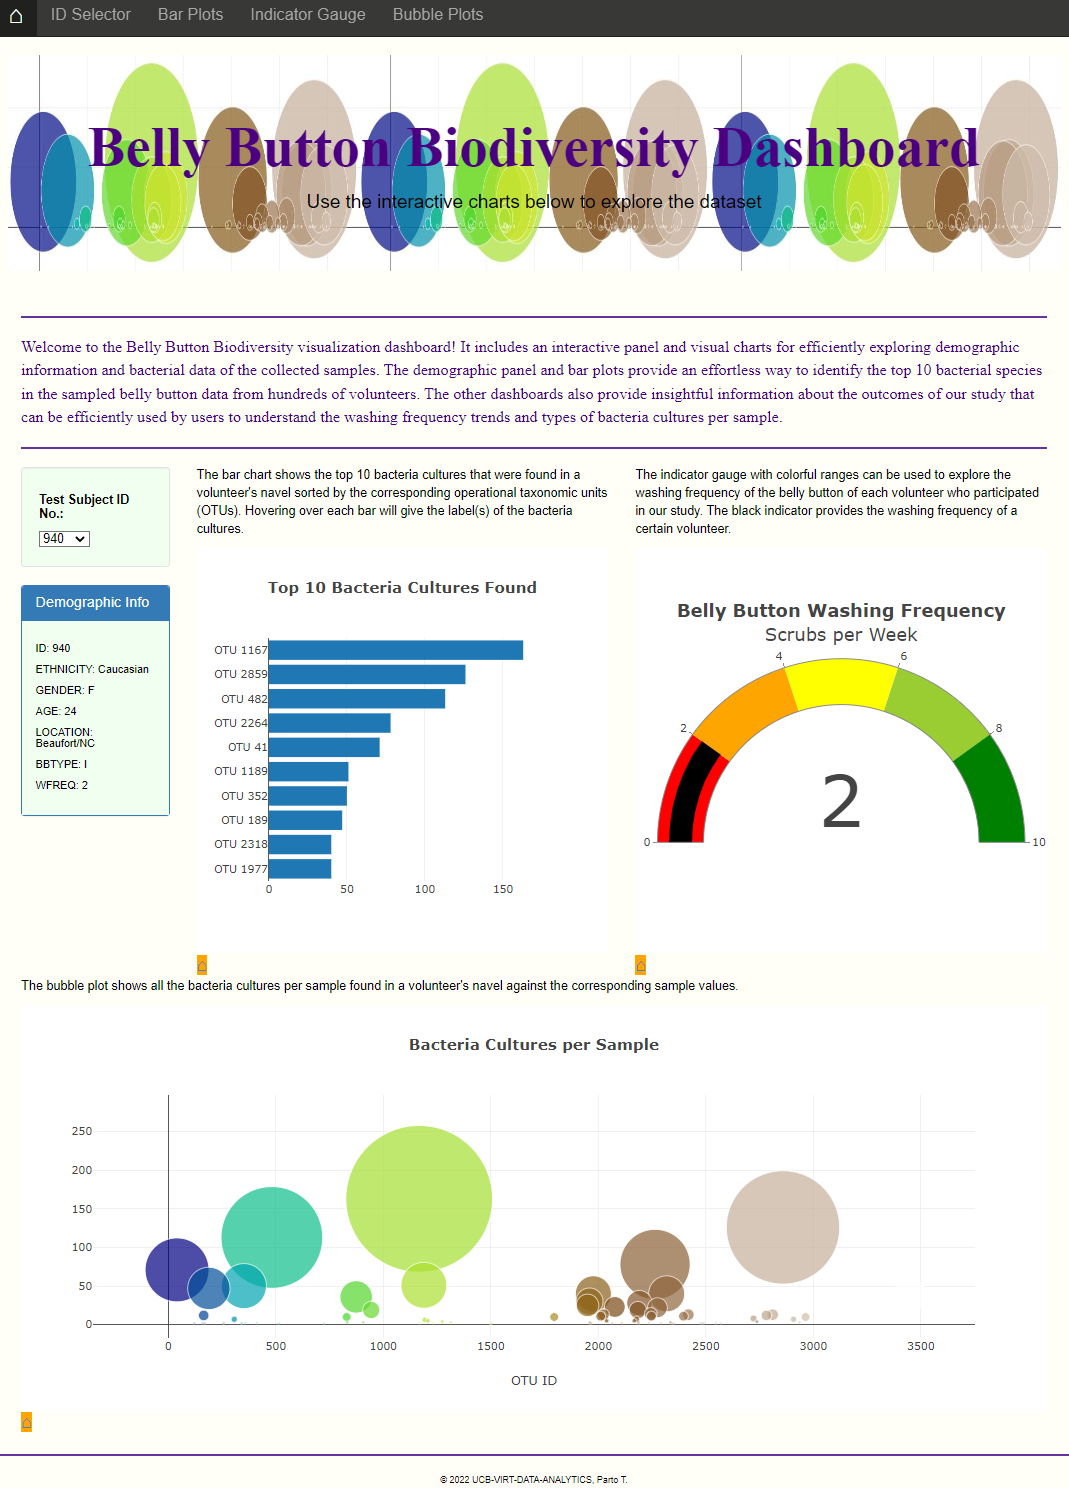
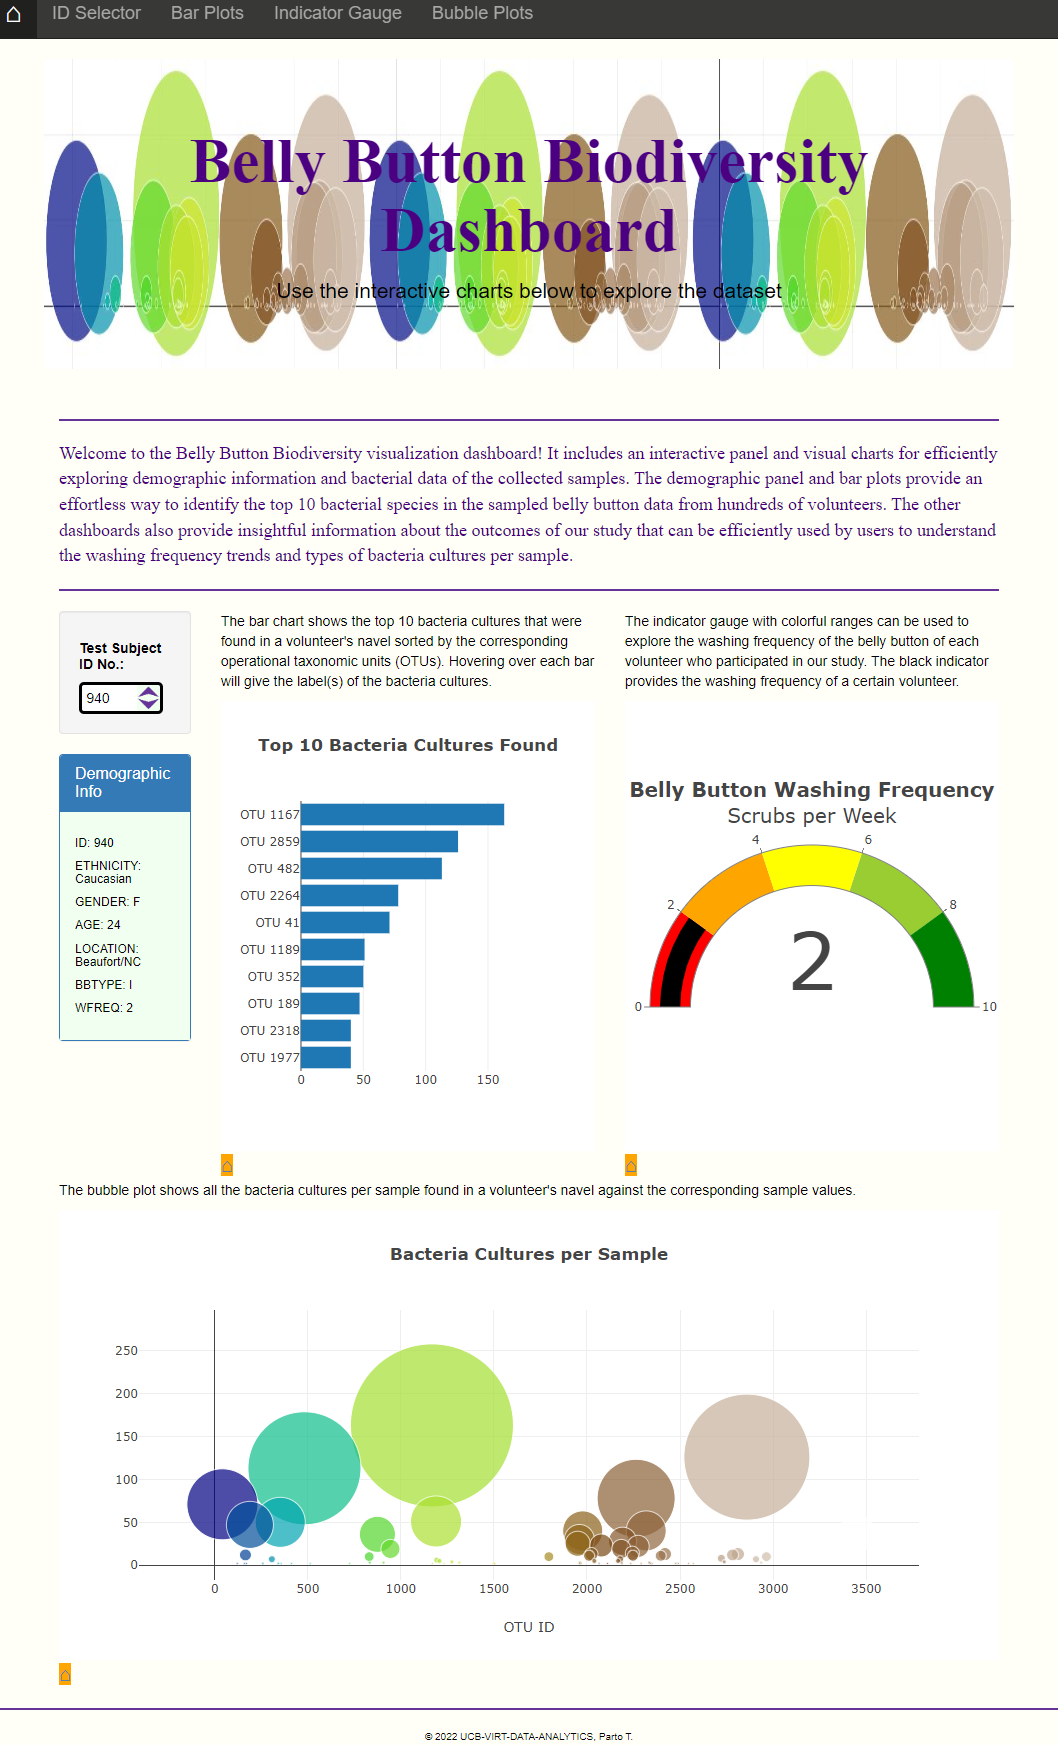
Minor revision of html and supporting files

diff --git a/static/css/style.css b/static/css/style.css
@@ -1,5 +1,6 @@
 /* UCB-VIRT-DATA-ANALYTICS-2022, Parto T. */
 
+/*ivory:#fffff7, orange:#ffa500, honeydew:#f0fff0, rebeccapurple:#663399, indigo:#4b0082 */
 body {
   color: black;
   background-color: #fffff7;
@@ -14,23 +15,23 @@ nav {
 nav:hover {
   opacity: 1;
   font-weight: 700;
-  background: linear-gradient(to right, red, orange, yellow, yellowgreen, green);
+  background: linear-gradient(to right, red, #ffa500, yellow, yellowgreen, green);
 }
 
 div.well:hover {
-  background: honeydew;
+  background: #f0fff0;
 }
 
 div#sample-metadata.panel-body {
-  background: honeydew;
+  background: #f0fff0;
 }
 
 div.col-md-5:hover {
-  background: honeydew;
+  background: #f0fff0;
 }
 
 div.col-md-12:hover {
-  background: honeydew;
+  background: #f0fff0;
 }
 
 hr {
@@ -40,17 +41,17 @@ hr {
 a[href^="#top"] {
   font-size: 20px;
   text-align: center;
-  background: orange;
+  background: #ffa500;
 }
 
 h1[id^="ffFan"] {
   font-family: 'Fantasy', 'serif';
-  color: indigo;
+  color: #4b0082;
 }
 
 [id^="fsFan"] {
   font-family: 'Fantasy', 'serif';
-  color: indigo;
+  color: #4b0082;
   font-size: 18px;
 }
 
@@ -95,4 +96,35 @@ h1[id^="ffFan"] {
     margin-top: 0%;
     width: 25%;
   }
+}
+
+/* customize select tag */
+select {
+  background-color: white;
+  display: inline-block;
+  border: solid;
+  border-radius: 5px;
+  line-height: 1.5em;
+  /* padding: top | right | bottom | left */
+  padding: 0.2em 3.0em 0.2em 0.3em;
+  /* support standard & historical browsers Chrome/Safari/Edge/Firefox */
+  box-sizing: border-box;
+  appearance: none;
+  -webkit-box-sizing: border-box;
+  -webkit-appearance: none;
+  -moz-box-sizing: border-box;
+  -moz-appearance: none;
+}
+
+select.arrowUD {
+  background-image: url("../images/arrow_up_down.png");
+  background-position: 100%, 100% 0;
+  /* width:auto height:line-height + padding-top + padding-bottom */
+  background-size: auto calc(1.5em + 0.2em + 0.2em);
+  background-repeat: no-repeat;
+}
+
+select.arrowUD:focus {
+  border-color: #663399;
+  outline: 0;
 }

diff --git a/index.html b/index.html
@@ -37,7 +37,7 @@
       <div class="col-md-2">
         <div class="well">
           <h5><b>Test Subject ID No.:</b></h5>
-          <select id="selDataset" onchange="optionChanged(this.value)"></select>
+          <select class="arrowUD" id="selDataset" onchange="optionChanged(this.value)"></select>
         </div>
         <div class="panel panel-primary">
           <div class="panel-heading">
